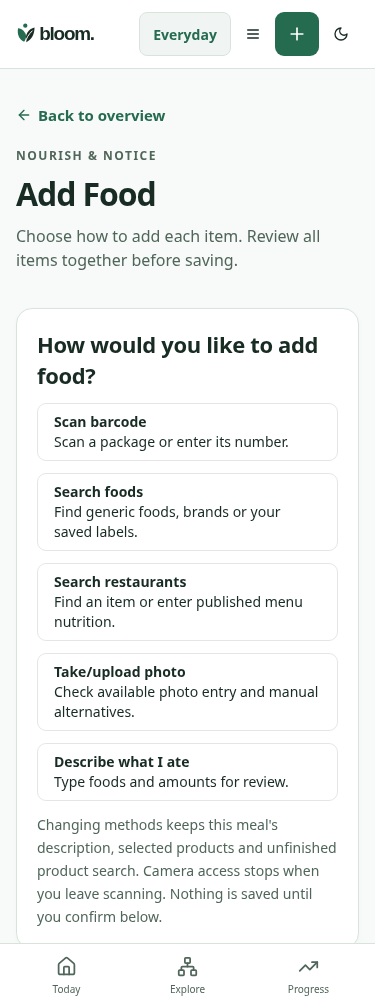
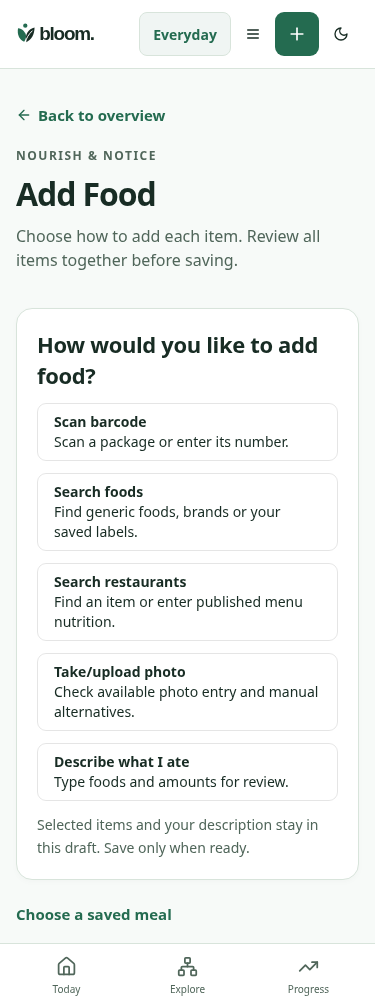
Add market-aware restaurant shortcuts and concise canonical entry controls

Changed region(s): [[0.0293, 0.806, 0.9093, 0.93], [0.9387, 0.868, 0.968, 0.899]]

diff --git a/client/src/pages/LogMeal.tsx b/client/src/pages/LogMeal.tsx
@@ -1,3 +1,5 @@
+import {useAuth} from "@/lib/auth";
+import RestaurantEntry from "@/components/RestaurantEntry";
 import FoodCapture from "@/components/FoodCapture";
 import { useExperience } from "@/lib/experience";
 import { energyAmount, foodMass } from "@shared/nutrition-display";
@@ -25,6 +27,7 @@ import type { Meal } from "@shared/schema";
 
 export default function LogMeal() {
   const { settings } = useExperience();
+  const {user}=useAuth();
   const params = new URLSearchParams(window.location.search);
   const requestedType = params.get("type");
   const productQuery = (params.get("productQuery") || "").slice(0,120);
@@ -66,15 +69,18 @@ export default function LogMeal() {
   const [products, setProducts] = useState<Ingredient[]>([]);
   const [method,setMethod]=useState<FoodEntryMethod|null>(parseFoodEntryMethod(params.get("method"))||(params.has("productQuery")?"search":params.has("description")||recipe||catalogueId?"describe":null));
   const [pickerVisited,setPickerVisited]=useState(params.has("productQuery")||["barcode","search","restaurant"].includes(params.get("method")||""));
-  const [restaurant,setRestaurant]=useState(""),[market,setMarket]=useState("");
+  const [restaurant,setRestaurant]=useState(""),[market,setMarket]=useState("Canada"),[restaurantVisited,setRestaurantVisited]=useState(params.get("method")==="restaurant");
   const chooserHeading=useRef<HTMLHeadingElement>(null);
   const changeMethod=(next:FoodEntryMethod|null)=>{
+    if(next==="restaurant")setRestaurantVisited(true);
     if(next&&["barcode","search","restaurant"].includes(next))setPickerVisited(true);
     const url=new URL(window.location.href);if(next)url.searchParams.set("method",next);else url.searchParams.delete("method");
     window.history.pushState(null,"",url.pathname+url.search);setMethod(next);
     requestAnimationFrame(()=>chooserHeading.current?.focus());
   };
   useEffect(()=>{const back=()=>{const next=parseFoodEntryMethod(new URLSearchParams(window.location.search).get("method"));setMethod(next);if(next&&["barcode","search","restaurant"].includes(next))setPickerVisited(true);};window.addEventListener("popstate",back);return()=>window.removeEventListener("popstate",back);},[]);
+  const recentMeals=useQuery<Meal[]>({queryKey:["/api/meals",user?.id],enabled:!!user&&method==="restaurant"});
+  const recentRestaurants=(recentMeals.data||[]).flatMap(meal=>{const context=(meal.mealContext as any)?.restaurantContext;return typeof context?.restaurant==="string"&&typeof context?.market==="string"?[{restaurant:context.restaurant,market:context.market}]:[];});
   const pickerActive=method==="barcode"||method==="search"||method==="restaurant";
   const [savedMeal, setSavedMeal] = useState<Meal | null>(null);
   const { toast } = useToast();
@@ -91,7 +97,7 @@ export default function LogMeal() {
             eatenAt: new Date(eatenAt).toISOString(),
             portion,
             symptoms,
-            ...((restaurant.trim()||market.trim())?{restaurantContext:{restaurant:restaurant.trim(),market:market.trim(),source:"user-entered-context" as const}}:{}),
+            ...((restaurant.trim()||restaurantVisited)?{restaurantContext:{restaurant:restaurant.trim(),market:market.trim(),source:"user-entered-context" as const}}:{}),
           },
         };
       const serialized = JSON.stringify(payload);
@@ -104,7 +110,7 @@ export default function LogMeal() {
       setSavedMeal(meal);
       setDescription("");
       setProducts([]);
-      setRestaurant("");setMarket("");setPickerVisited(false);changeMethod(null);window.history.replaceState(null,"","/log-meal");
+      setRestaurant("");setMarket("Canada");setRestaurantVisited(false);setPickerVisited(false);changeMethod(null);window.history.replaceState(null,"","/log-meal");
       setCatalogueEnabled(false);
       queryClient.invalidateQueries({
         predicate: (query) =>
@@ -166,10 +172,10 @@ export default function LogMeal() {
         <h2 ref={chooserHeading} tabIndex={-1}>{method?foodEntryMethods.find(m=>m.id===method)?.label:"How would you like to add food?"}</h2>
         {method&&<Button type="button" variant="outline" onClick={()=>changeMethod(null)}>Change method / add another item</Button>}
         {!method&&<div className="grid gap-3 sm:grid-cols-2">{foodEntryMethods.map(m=><Button className="h-auto whitespace-normal text-left block" type="button" variant="outline" key={m.id} onClick={()=>{setSavedMeal(null);changeMethod(m.id);}}><strong className="block">{m.label}</strong><span className="block text-sm font-normal">{m.description}</span></Button>)}</div>}
-        <p className="panel-note">Changing methods keeps this meal's description, selected products and unfinished product search. Camera access stops when you leave scanning. Nothing is saved until you confirm below.</p>
+        <p className="panel-note">Selected items and your description stay in this draft. Save only when ready.</p>
         {method==="describe"&&<div className="space-y-3"><p>Type foods and amounts in the shared meal review below. Selected products are counted separately.</p><FoodCapture voiceOnly onDescription={text=>setDescription(current=>[current,text].filter(Boolean).join("; "))} onProduct={()=>{}}/></div>}
-        <div hidden={method!=="restaurant"} className="space-y-3"><p>No official restaurant-menu catalogue is connected. Product search may find a published record; confirm country, item and serving. Generic foods are estimates. You can enter official menu nutrition as a private label or describe the meal without invented values.</p><label className="block">Restaurant name<input className="bloom-input w-full" maxLength={150} value={restaurant} onChange={e=>setRestaurant(e.target.value)}/></label><label className="block">Market / country (optional)<input className="bloom-input w-full" maxLength={100} value={market} onChange={e=>setMarket(e.target.value)}/></label><Button type="button" variant="outline" onClick={()=>changeMethod("describe")}>Describe restaurant meal instead</Button></div>
-        {method==="photo"&&<div role="status" className="space-y-3"><p>Automatic photo interpretation is unavailable pending provider, privacy and accuracy approval. No image is requested or sent. You can enter the printed label or describe what you ate.</p><Button type="button" variant="outline" onClick={()=>changeMethod("search")}>Enter package nutrition instead</Button><Button type="button" variant="outline" onClick={()=>changeMethod("describe")}>Describe food instead</Button></div>}
+        <div hidden={method!=="restaurant"} className="space-y-3"><RestaurantEntry recent={recentRestaurants} name={restaurant} region={market} onName={setRestaurant} onRegion={setMarket}/><p className="panel-note">No official menu catalogue is connected. Check source and country; generic matches are estimates.</p><Button type="button" variant="outline" onClick={()=>changeMethod("describe")}>Describe restaurant meal instead</Button><details><summary>Why?</summary><p>Common brands and saved restaurant names do not verify menu nutrition, availability or allergens. Enter values from the menu as a private label or use a description; missing values stay unknown.</p></details></div>
+        {method==="photo"&&<div role="status" className="space-y-3"><p>Automatic photo interpretation is unavailable. No image is requested or sent. Enter a label or describe your food.</p><Button type="button" variant="outline" onClick={()=>changeMethod("search")}>Enter package nutrition instead</Button><Button type="button" variant="outline" onClick={()=>changeMethod("describe")}>Describe food instead</Button></div>}
         {products.length>=10&&<p role="alert">This meal supports up to 10 labelled products. Save the meal or remove one before adding another.</p>}
         {pickerVisited&&<div hidden={!pickerActive}><ProductPicker active={pickerActive} showBarcode={method==="barcode"} pending={products.length>=10} onPick={i=>{setProducts(v=>v.length>=10?v:[...v,i]);changeMethod(null);}} initialQuery={productQuery||description.slice(0,120)} autoSearch={!!productQuery}/></div>}
       </section>
@@ -218,7 +224,7 @@ export default function LogMeal() {
         <fieldset disabled={save.isPending} className="space-y-6">
           <legend className="sr-only">Meal details</legend>
           <h2>Review this meal</h2>
-          {(restaurant||market)&&<p className="panel-note">Restaurant context (entered by you): {restaurant} · {market||"market not specified"}. This context does not verify the nutrition source.</p>}
+          {(restaurant||restaurantVisited)&&<p className="panel-note">Restaurant context (entered by you): {restaurant||"restaurant not specified"} · {market||"market not specified"}. This context does not verify the nutrition source.</p>}
           <MealTypeSelector selected={mealType} onChange={setMealType} />
           <div className="space-y-2">
             {!catalogueEnabled&&<><Label htmlFor="food-input">Describe your meal</Label>

diff --git a/client/src/components/RestaurantEntry.tsx b/client/src/components/RestaurantEntry.tsx
@@ -1,0 +1,6 @@
+import {useId,useState} from 'react';import {Button} from '@/components/ui/button';import {restaurantSuggestions,restaurantRegions} from '@shared/restaurant-entry';
+export default function RestaurantEntry({name,region,onName,onRegion,recent=[]}:{name:string;region:string;onName:(value:string)=>void;onRegion:(value:string)=>void;recent?:{restaurant:string;market:string}[]}){
+ const id=useId(),[open,setOpen]=useState(false),[active,setActive]=useState(-1),[notice,setNotice]=useState('');const options=restaurantSuggestions(name,region,recent);
+ const choose=(value:string)=>{onName(value);setOpen(false);setActive(-1);};
+ return <div className="space-y-3"><p className="panel-note">Common brands and recent restaurants — not nearby branches.</p><div className="relative"><label htmlFor={id}>Restaurant (search or enter)</label><input id={id} role="combobox" aria-autocomplete="list" aria-expanded={open} aria-controls={open?`${id}-options`:undefined} aria-activedescendant={open&&active>=0&&active<options.length?`${id}-option-${active}`:undefined} className="bloom-input w-full" maxLength={150} value={name} onChange={e=>{onName(e.target.value);setOpen(true);setActive(-1);}} onFocus={()=>setOpen(true)} onBlur={()=>setOpen(false)} onKeyDown={e=>{if(e.key==='Escape'){setOpen(false);setActive(-1);}else if(e.key==='ArrowDown'||e.key==='ArrowUp'){e.preventDefault();setOpen(true);setActive(index=>options.length?(index<0?(e.key==='ArrowDown'?0:options.length-1):(index+(e.key==='ArrowDown'?1:-1)+options.length)%options.length):-1);}else if(e.key==='Enter'&&open&&active>=0&&options[active]){e.preventDefault();choose(options[active].name);}}}/>{open&&<ul role="listbox" id={`${id}-options`} className="bloom-panel p-2 space-y-1">{options.map((option,index)=><li key={option.name} id={`${id}-option-${index}`} role="option" aria-selected={active===index} className="p-2 cursor-pointer rounded focus:outline" onMouseDown={e=>e.preventDefault()} onClick={()=>choose(option.name)}>{option.name}<span className="block text-xs">{option.kind}</span></li>)}{!options.length&&<li role="presentation" className="panel-note">No common brand match. You can keep this name and describe the item or enter menu nutrition.</li>}</ul>}</div><label className="block">Change region<select className="bloom-input w-full" value={region} onChange={e=>{onRegion(e.target.value);setActive(-1);}}>{restaurantRegions.map(value=><option key={value}>{value}</option>)}</select></label><p className="panel-note">Browsing region is not a detected location. Canada is the default; match the country on your menu.</p><Button type="button" variant="outline" onClick={()=>setNotice('Nearby is unavailable; no places source is connected. No location was requested. Search a restaurant name instead.')}>Nearby</Button>{notice&&<p role="status" className="panel-note">{notice}</p>}</div>;
+}

diff --git a/tests/lab-review-api.test.ts b/tests/lab-review-api.test.ts
@@ -1,3 +1,4 @@
+import {decryptPrecision} from "../server/precision-crypto";
 import test from "node:test";
 import assert from "node:assert/strict";
 import express from "express";
@@ -29,6 +30,6 @@ test("lab unit confirmation is authenticated, encrypted, owner-bound and transac
   assert.equal(a.data.payload.unitReview.supersedes,source.data.id);assert.ok(a.data.payload.unitReview.confirmedAt);
   const retry=await request(endpoint,{unit:'mg/dL'});assert.equal(retry.data.id,a.data.id);
   assert.equal((await store.getPrecisionRecords('a')).length,2);assert.equal((await store.getPrecisionRecords('b')).length,0);
-  const raw=await pg.query('SELECT encrypted_payload FROM precision_records');assert.ok(raw.rows.every((r:any)=>!JSON.stringify(r.encrypted_payload).includes('Synthetic lab')&&!JSON.stringify(r.encrypted_payload).includes('LDL')));
+  const raw=await pg.query('SELECT encrypted_payload FROM precision_records');for(const row of raw.rows as any[]){const envelope=row.encrypted_payload;assert.ok([1,2].includes(envelope.version));assert.ok(Object.keys(envelope).every(key=>['version','keyId','iv','tag','ciphertext'].includes(key)));assert.equal(Object.hasOwn(envelope,'value'),false);assert.equal((decryptPrecision(envelope,'a') as any).value,120);assert.throws(()=>decryptPrecision(envelope,'b'));}
  }finally{server.closeAllConnections();await new Promise<void>(r=>server.close(()=>r()));await pg.close();if(previous===undefined)delete process.env.PRECISION_DATA_KEY;else process.env.PRECISION_DATA_KEY=previous;}
 });

diff --git a/shared/restaurant-entry.ts b/shared/restaurant-entry.ts
@@ -1,0 +1,11 @@
+export const restaurantRegions=['Canada','United States','Other / unspecified'] as const;
+/** Brand-name shortcuts only: never places, current menus or verified nutrients. */
+const common:Record<string,readonly string[]>={
+ Canada:["McDonald's","Tim Hortons","A&W","Subway","Starbucks","Wendy's","Burger King","Harvey's"],
+ 'United States':["McDonald's","Subway","Starbucks","Wendy's","Burger King","Taco Bell","Panera Bread","Chipotle"],
+};
+export function commonRestaurantNames(query:string,region:string){const key=(text:string)=>text.normalize('NFKD').replace(/[\u0300-\u036f]/g,'').toLowerCase().replace(/[^a-z0-9]/g,'');const q=key(query);return (common[region]||[]).filter(name=>key(name).includes(q));}
+export function restaurantSuggestions(query:string,region:string,recent:readonly {restaurant:string;market:string}[]=[]){
+ const norm=(value:string)=>value.normalize('NFKD').toLowerCase().replace(/[^a-z0-9]/g,'');const q=norm(query),seen=new Set<string>();
+ return [...recent.filter(r=>r.market===region&&r.restaurant.trim()&&r.restaurant.length<=150&&norm(r.restaurant).includes(q)).slice(0,8).map(r=>({name:r.restaurant,kind:'Recent restaurant'})),...commonRestaurantNames(query,region).map(name=>({name,kind:'Common brand'}))].filter(row=>{const key=norm(row.name);if(seen.has(key))return false;seen.add(key);return true;}).slice(0,12);
+}

diff --git a/tests/restaurant-entry.test.ts b/tests/restaurant-entry.test.ts
@@ -1,0 +1,6 @@
+import test from 'node:test';import assert from 'node:assert/strict';import {commonRestaurantNames,restaurantSuggestions} from '../shared/restaurant-entry';
+test('restaurant shortcuts support a few typed characters and punctuation without claiming nearby/menu coverage',()=>{
+ assert.deepEqual(commonRestaurantNames('mcd','Canada'),["McDonald's"]);assert.deepEqual(commonRestaurantNames("McDonald’s",'Canada'),["McDonald's"]);assert.ok(commonRestaurantNames('','Canada').includes('Tim Hortons'));assert.equal(commonRestaurantNames('Panera','Canada').length,0);assert.ok(commonRestaurantNames('Panera','United States').includes('Panera Bread'));assert.deepEqual(commonRestaurantNames('anything','Other / unspecified'),[]);assert.deepEqual(commonRestaurantNames('synthetic unknown restaurant','Canada'),[]);
+});
+
+test('recent restaurant shortcuts are limited to the selected market and deduplicate common brands',()=>{const rows=restaurantSuggestions('','Canada',[{restaurant:'Synthetic Bistro',market:'Canada'},{restaurant:'US only',market:'United States'},{restaurant:"McDonald’s",market:'Canada'}]);assert.equal(rows[0].kind,'Recent restaurant');assert.equal(rows.some(r=>r.name==='US only'),false);assert.equal(rows.filter(r=>/McDonald/.test(r.name)).length,1);});

diff --git a/BACKLOG.md b/BACKLOG.md
@@ -1,6 +1,6 @@
 # Bloom autonomous development backlog
 
-Branch: `enhance/bloom-experience`. Last published implementation: `d0214c06a64c92750727a87f5644173223f5fcba`.
+Branch: `enhance/bloom-experience`. Last published implementation: `80c3aad` (plus Architect-only 2f1ea40).
 
 This execution ledger follows the owner's overnight directive. Scope and priority remain governed by `AGENTS.md`, `docs/architecture/CURRENT_V05_REQUIREMENTS.md` and `docs/architecture/ACTIVE_EXECUTION_QUEUE.md`. Finish v0.5 before v0.6. Do not merge main or alter credentials without the relevant authorization. Do not claim independent acceptance from synthetic tests.
 
@@ -11,8 +11,10 @@ This execution ledger follows the owner's overnight directive. Scope and priorit
 | FOOD-507 / MKT-FOOD-801–806 | P0 | Five neutral Add Food routes and canonical multi-method draft/save | IMPLEMENTED_AND_TESTED | 207 tests/build; CI 40072488627 passed and Render dep-dbe5fdbm8hqs73d6f5hg live. Synthetic mixed-method save and denied camera/manual/photo fallback checks. Restaurant context is descriptive only. Asset package adoption and independent device/VoiceOver acceptance remain blocked separately. |
 | GATE-701 / LEG-GATE / LEG-INVENTORY | P0 | Central versioned capability policy, full exposure inventory and internal-only reactive UI gates | IN_PROGRESS | Provisional approval normalization and fail-closed photo/flux API guards implemented in current slice. Full endpoint/output/job/export coverage, tester provisioning/toggle and reactive graphite UI remain independently actionable. Incident-disabled outputs must stay off. |
 | GATE-701-PREF | P0 | Server-provisioned internal opt-in with reversible Settings preference | IMPLEMENTED_AND_TESTED | 210 tests/types/build and synthetic light/dark/mobile/desktop off/on/revocation checks. Published d0214c0, CI 40073617588 passed, Render dep-dbe5nh4s728c738d5grg live. Current effective restricted capability list remains empty. No live grants/migration/activation. |
-| OPS-702-USDA | P0 | Shared source request allowance across search/detail/meal lookup | IMPLEMENTED_AND_TESTED; publication pending | 213 tests/types/build; two-replica database boundary/reset/cache/fallback tests. No monetary tariff invented. Full AI spend/circuits/analytics remain OPEN. |
+| OPS-702-USDA | P0 | Shared source request allowance across search/detail/meal lookup | IMPLEMENTED_AND_TESTED | 213 tests/types/build; two-replica database boundary/reset/cache/fallback tests. Published 80c3aad; CI 40074216938 passed on its Architect-doc descendant. No monetary tariff invented. Full AI spend/circuits/analytics remain OPEN. |
 | OPS-702 | P0 | Shared per-user/capability limits, atomic AI spend reservations and recovery verification | OPEN | Existing shared rate budgets remain. New daily/monthly money metering and recovery acceptance are not claimed. No invented tariffs or paid services. |
+| FOOD-508 / INT-REST / UT-REST / MKT-REST | P0 | Common-brand/recent restaurant combobox and explicit region/locality fallbacks | IMPLEMENTED_AND_TESTED; publication pending | 215 tests/types/build; keyboard McDonald's selection, market separation, no GPS requests and canonical context/save browser regression passed. Actual menu/places sources remain externally gated. |
+| COPY-1301 / UT-COPY / MKT-COPY / MKT-LAYOUT | P0 | Task-first concise copy and rendered layout audit | IN_PROGRESS | Applied to active Add Food/restaurant surface with screenshots and overflow checks. Whole-app sweep remains actionable; do not claim source suspicions are proven layout defects. |
 | PRIV-101 | P0 | Combined account-record export | VERIFIED_PREVIEW | `40147fb`; CI 40057861646 passed, Render live. Read-only account snapshot; explicit optional-storage state; no passwords/session material/internal paths. |
 | PRIV-102 | P0 | Password-confirmed active account erasure and stored-session revocation | VERIFIED_PREVIEW; specialist review pending | `9f83028`; 203 Node tests, types/build and synthetic browser passed. CI 40059692748 passed including real isolated-Neon erasure and second-account checks. Render `dep-dbe2k8ks728c738aphcg` live. |
 | PRIV-103 | P0 | Backup retention, erasure propagation through restore, operational-log and vendor lifecycle | OPEN | Audit existing provider/configuration and approved retention requirements first. Implement/test with isolated synthetic data; actual destructive backup operations require separate authorization. No claim of full backup/vendor erasure. |

diff --git a/NEXT_ACTIONS.md b/NEXT_ACTIONS.md
@@ -1,10 +1,10 @@
 # Resume Bloom development
 
 1. Work in `/workspace/BloomGutHealth` on `enhance/bloom-experience`. Read `AGENTS.md`, `docs/architecture/ACTIVE_EXECUTION_QUEUE.md`, this root backlog and newer consolidated handoffs. Verify current Git status, PR #1 head/CI and existing Render service; preserve concurrent work. Do not reset or force-push.
-2. Last published implementation is `d0214c06a64c92750727a87f5644173223f5fcba`, with CI 40073617588 successful and Render `dep-dbe5nh4s728c738d5grg` live. Workspace `tea-db9toijrjlhs73850cp0`, existing service `srv-db9u7mjbc2fs73d86uv0`. Pass workspaceId on connector calls. No replacement service or main merge.
+2. Last published code is `80c3aad`, plus Architect-only 2f1ea40; CI 40074216938 passed on that descendant. Verify current exact head/deployment before continuing. Workspace `tea-db9toijrjlhs73850cp0`, existing service `srv-db9u7mjbc2fs73d86uv0`. Pass workspaceId on connector calls. No replacement service or main merge.
 3. Execution recovered after the review's stated reset time at 06:45 UTC. Normal approval succeeded. Do not treat the historical usage failure as an ongoing product blocker.
 4. FOOD-506 was published as `b5dce7c05e493ed6c2185dbba96f3a83990be211`: 204 tests/build/types, save/totals browser regression and production advisory check passed. CI 40071570397 succeeded; Render `dep-dbe58q6i0phs73bnvfr0` is live.
-5. Current local slice is OPS-702-USDA, shared provider request counting using the existing shared budget table. 213 full tests/types/build passed. Publish and verify exact-SHA CI/Render next. This does NOT complete AI spend reservation/circuits/cost analytics. Then implement common-chain restaurant combobox/optional locality handoff (72bdf6c) without inventing provider-backed places/menu nutrition, and continue broader capability inventory/operations.
+5. Current local slice FOOD-508 adds common-brand/recent restaurant combobox and explicit region/Nearby fallback, plus task-first concise copy. 215 full tests/types/build and keyboard/market/no-location/canonical-save browser checks passed. Publish after preserving the fetched 2f1ea40 copy handoff. The lab encryption test fix removes random-ciphertext substring flakiness and instead verifies envelope/decryption/AAD rejection. After exact-SHA CI/Render verification, continue full capability exposure inventory and economics/recovery tasks; the overall goal is incomplete.
 6. Browser environment: `BLOOM_PLAYWRIGHT_MODULE=/opt/codex/cua_node/lib/node_modules/playwright`, `BLOOM_CHROMIUM_EXECUTABLE=/usr/bin/chromium`. Use `node --import tsx scripts/qa/add-food-journey.mjs` (localhost:5194) and `scripts/qa/branded-food-journey.mjs` (localhost:5187). Fixtures do not establish hosted/native/independent acceptance. Do not run concurrently because shared Vite dependency caches can conflict.
 7. Stage only reviewed source/tests and curated docs/review artifacts, update the four root records, commit and push. Preserve concurrent Architect changes with fetch/inspect/rebase of unpublished commits only. Auto-deploy is configured; no manual deploy after push.
 8. Verify exact-SHA CI and existing Render live deployment/logs. Keep advisory/security/persistence gates intact. Record evidence and continue to the next task immediately.

diff --git a/docs/architecture/V05_IMPLEMENTATION_STATUS.md b/docs/architecture/V05_IMPLEMENTATION_STATUS.md
@@ -162,3 +162,9 @@ An additive preference table/migration is tested on isolated CI only. Ordinary l
 The existing USDA cache-miss allowance now also uses the PostgreSQL shared limiter across replicas and process restarts, on both product search and detail resolution (including meal analysis). Public cache hits do not consume another provider allowance. Provider-store failure denies external calls while private labels/manual entry remain available. Search endpoints also receive the shared authenticated/source resource budget. The shared limit is configurable; the existing 12/minute default and per-process cap remain, with invalid configuration denying this provider rather than disabling core logging.
 
 213 tests, types and build passed. Database tests verify two replicas crossing the last allowance, expiry/reset, cache reuse, no query/key/account identifiers in budget records and provider-store outage fallback. No new schema, provider, credential or dollar tariff. This is request counting, **not** AI spend reservation/reconciliation, circuit breaking, cost-per-active-user reporting or full API inventory; those remain open under OPS-702.
+
+## Restaurant combobox, region and concise food copy
+
+Restaurant input now offers common brands plus same-market recent restaurant context from the authenticated journal, keyboard selection and explicit Change region. Canada is a disclosed browsing default, not detected location. Nearby is a truthful unavailable state with no location request or invented place. No city/name field is mandatory; custom names and existing manual label/description flow remain. No menus/nutrients are inferred from a brand or region. Detailed background moves behind Why?, with source uncertainty still visible and the task first.
+
+215 tests, types/build and the synthetic mixed-method save journey passed, including few-character McDonald's keyboard selection, Canada/US filtering, no geolocation, saved context and 320–1440px reflow. [Targeted fixtures](../review/restaurant-entry-20261024/README.md). Full regression exposed a randomized lab-ciphertext substring assertion; it now checks envelope shape, correct-account original-value decryption and wrong-account rejection, strengthening the meaningful security guarantee. Saved market preference integration (none defined currently), live place/menu coverage, provider rights and independent device/VoiceOver acceptance remain open. No credentials or production data changed.

diff --git a/DEVELOPMENT_LOG.md b/DEVELOPMENT_LOG.md
@@ -46,3 +46,7 @@ Internal opt-in foundation: trusted server provisioning with explicit isolated-s
 Internal-preference checkpoint rebased safely over restaurant UX handoff 72bdf6c, published as d0214c0. CI 40073617588 passed; Render dep-dbe5nh4s728c738d5grg live. No account was provisioned or restricted service activated.
 
 OPS-702-USDA moves the existing source miss allowance into shared PostgreSQL budgets (search and detail/meal resolution), with configurable default 12/min, invalid-config/provider-store fail-closed behavior, cache reuse and private fallback. 213 full tests plus types/build passed; tests use two replicas on one actual embedded PostgreSQL budget store and cover reset and failed storage. No money-accounting or circuit-breaker completion claimed. Next independent P0 is the newly received common-chain/opt-in-nearby restaurant UX; provider-backed nearby/menu data stays blocked without approved source.
+
+### OPS-702-USDA published; FOOD-508 verified locally
+
+Published source budget as 80c3aad. Architect-only descendant 2f1ea40 includes the new concise-copy handoff; CI 40074216938 passed. Restaurant combobox now lists common brands/recent journal names within explicit region, with keyboard behavior and no fictitious nearby/menu data. Nearby makes no location call; source limitations remain visible while methodology is disclosed. 215 tests/types/build and mixed-method browser passed. Full-suite failure revealed chance occurrence of LDL in random ciphertext; replaced substring rejection with envelope validation, authenticated round trip and wrong-account rejection. No security gate relaxed. Next: publish/verify FOOD-508, then continue full capability exposure inventory, economics/recovery and app-wide evidenced polish. Independent actionable development remains.

diff --git a/docs/review/restaurant-entry-20261024/README.md b/docs/review/restaurant-entry-20261024/README.md
@@ -1,0 +1,7 @@
+# Restaurant selection
+
+The restaurant method now uses an accessible keyboard combobox: common brand names and same-market restaurant names from the authenticated journal. Canada is a disclosed browsing default, not detected location. Region selection filters suggestions without claiming verified menu nutrition or physical branches. Nearby explicitly reports the absent places source and requests no geolocation. Existing manual label/description alternatives and the one meal draft/save remain.
+
+The two mobile captures are synthetic common-brand and unavailable-nearby states, not live menu/place acceptance. The mixed-method browser test verifies few-character McDonald's selection, Canada/US filtering, no location calls, canonical context save and 320–1440px reflow. Pure tests cover recent-name deduplication and market isolation. Detailed limits move to Why?; actual source uncertainty remains visible.
+
+215 full tests, types and production build passed. A flaky lab test was corrected: random base64 can contain short plaintext-like substrings; encryption is now tested by allowed envelope fields, original value round trip and wrong-account authentication rejection. No encryption protection or CI gate was weakened. Live restaurant data, saved country-preference integration where absent, device/VoiceOver and independent acceptance remain separate.
